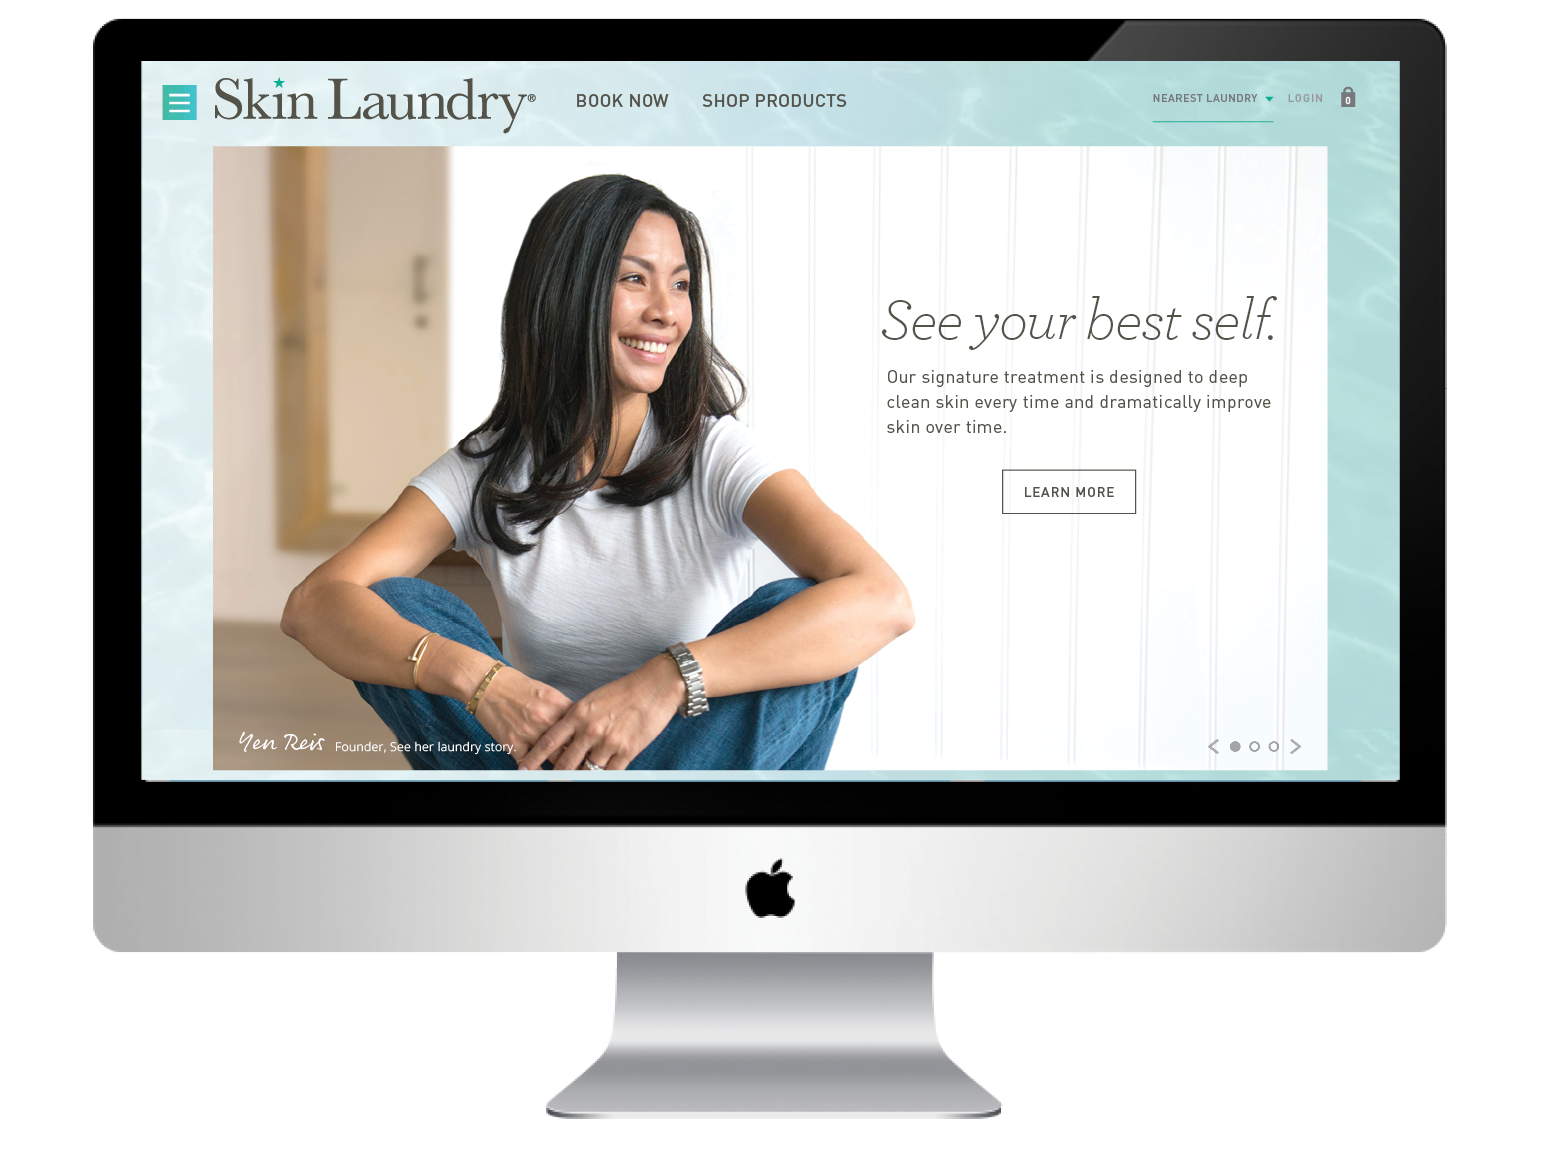
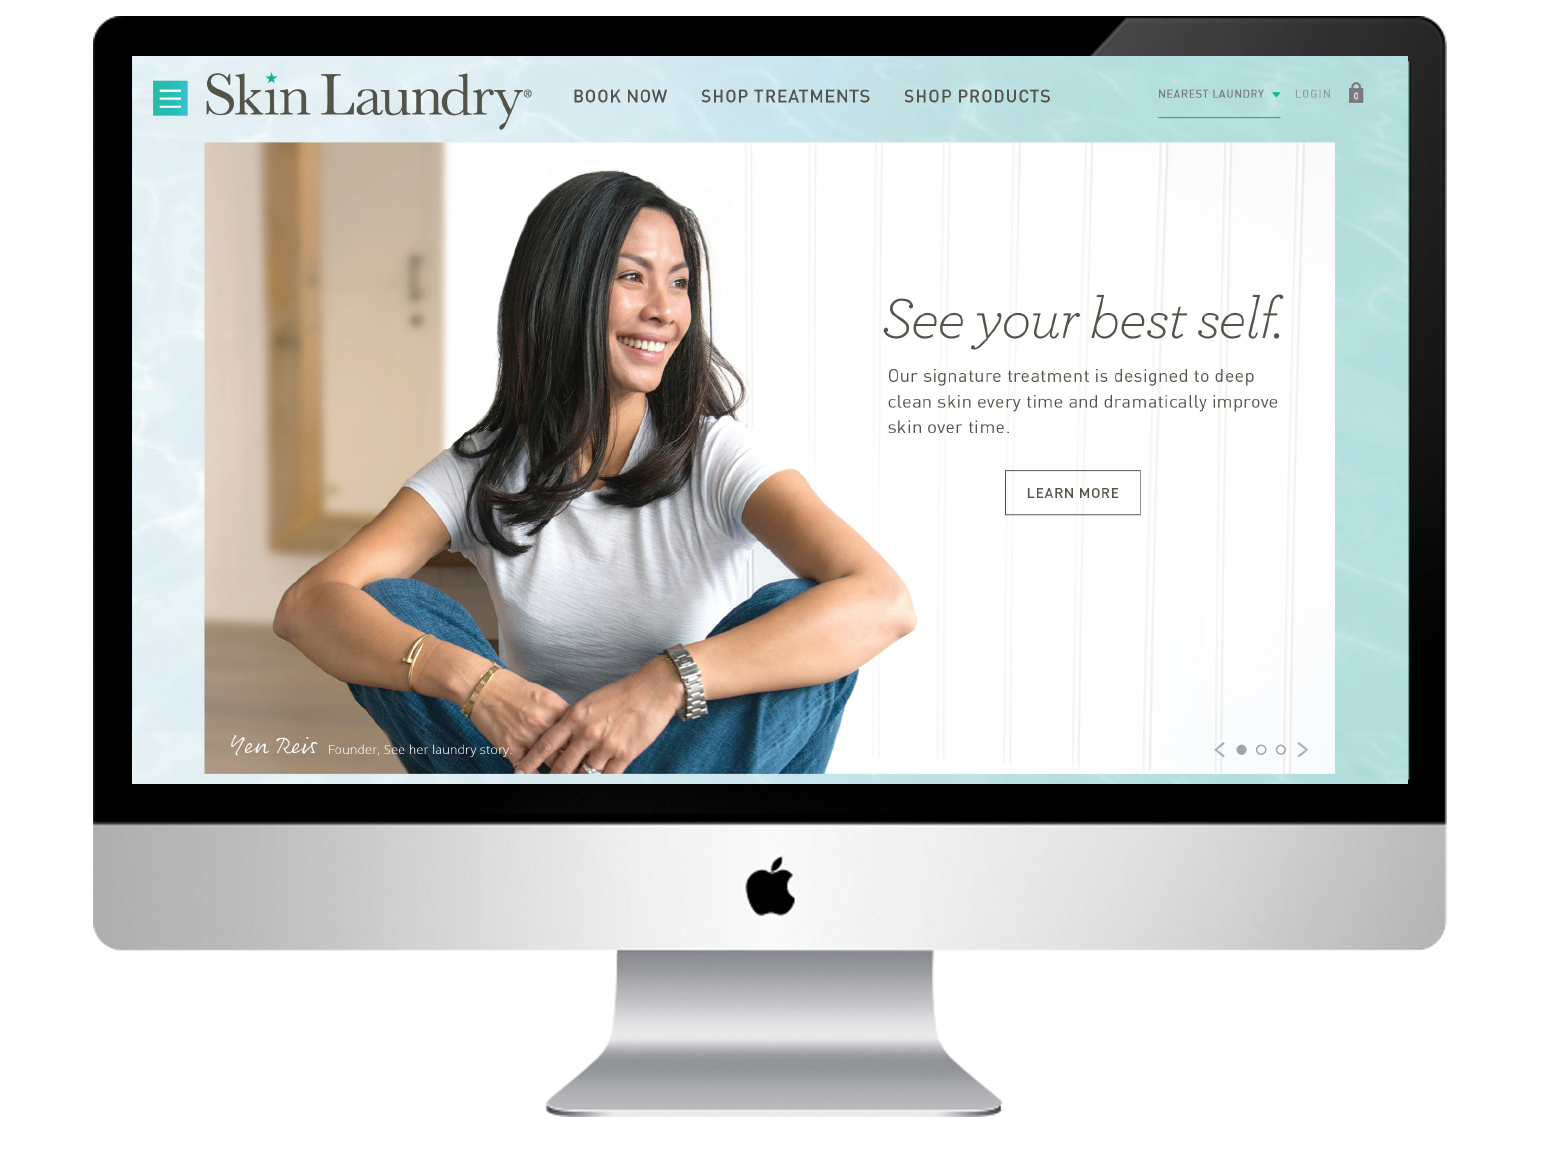
skin laundry mobile + correct bg images

diff --git a/source/stylesheets/case_studies/_skinlaundry.scss b/source/stylesheets/case_studies/_skinlaundry.scss
@@ -3,10 +3,12 @@ $mobile-width: 640px;
 body.skinlaundry {
     background-color: white;
     .top-background {
-        background-image: image-url("page_skinlaundry/graybackground2.jpg");
+        background-image: image-url("page_skinlaundry/palmtree.png");
     }
     .parallax-background {
-        background-image: image-url("page_skinlaundry/water_surface.jpg");
+        background-image: image-url("page_skinlaundry/water_surface.png");
+        background-repeat: no-repeat;
+
     } 
     .content {
         background-color: transparent;
@@ -17,6 +19,9 @@ body.skinlaundry {
             width: 100%;
             height: 100%;
             background-position: 100% 100px;
+            @media only screen and (max-width: $mobile-width) {
+                    padding-bottom: 0;
+                }
             .image-container {
             	font-size: 0;
           		position: relative;
@@ -25,7 +30,6 @@ body.skinlaundry {
           		margin: 0 auto;
           		
           		@media only screen and (max-width: $mobile-width) {
-          			padding-top: 138%;
           			width: 100%;
           		}
           		.block {
@@ -42,7 +46,10 @@ body.skinlaundry {
             		font-size: 25px;
             	}
           	    #sl-row01 {
-                    width: 100%;      	
+                    width: 100%;
+                    @media only screen and (max-width: $mobile-width) {
+                        text-align: center;
+                    }      	
                     #sl-container01 {
                         width: 45%;
                         transition: all 200ms ease-out;
@@ -58,7 +65,7 @@ body.skinlaundry {
                             padding-left: 0; 
                             opacity: .775;
                             left: 3%;
-                            width: 90%;
+                            width: 95%;
                             height: 25%;
                         }
                     }
@@ -77,20 +84,19 @@ body.skinlaundry {
                             padding-right: 50px;
                             font-family: 'DIN';
                         }
-                        
                         @media only screen and (max-width: 1170px) {
                             margin-top: 0;
-                            
                             p {
                                 line-height: 20px;
                                 padding-left: 30px;
                                 padding-right: 0;
                                 padding-top: 15px;
-                                
+                                text-align: left;
                             }
                         }
                         @media only screen and (max-width: 830px) {
                             width: 100%;
+                            margin: 0 auto;
                             h2 {
                                 margin-top: 20px;
                             }
@@ -98,19 +104,18 @@ body.skinlaundry {
                                 font-size: 15px;
                                 padding-left: 0;
                                 padding-right: 0;
-                                
                             }
                         }
                         @media only screen and (max-width: $mobile-width) {
-                            p {
-                                
-                                width: 50%;
-                            }
+                            width: 50%;
                         }
                     }
                 }
                 #sl-row02 {
                     width: 100%;
+                    @media only screen and (max-width: $mobile-width) {
+                        text-align: center;
+                    }
                     #sl-container03 {
                         width: 45%;
                         transition: all 200ms ease-out;
@@ -121,26 +126,71 @@ body.skinlaundry {
                             padding-left: 50px;
                             font-family: 'DIN';
                   		}
+                        @media only screen and (max-width: 1130px) {
+                            p {
+                                padding-top: 0px;
+                            }
+                        }
+                        @media only screen and (max-width: 1024px) {
+                            p {
+                                line-height: 20px;
+                                padding-right: 25px;
+                                padding-left: 25px;
+                            }
+                        }
+                        @media only screen and (max-width: 830px) {
+                            width: 50%;
+                            h2 {
+                                margin-top: 20px;
+                            }
+                            p {
+                                font-size: 15px;
+                                padding: 50px 10px;
+                                text-align: left;
+
+                            }
+                        }
                     }
                     #sl-container04 {
               		    width: 35%;
               		    img {
               			   width: 100%;
               		    }
+                        @media only screen and (max-width: 830px) {
+                            width: 50%;
+                            padding-top: 47px;
+                        }
+                        @media only screen and (max-width: $mobile-width) {
+                            width: 95%;
+                            padding-bottom: 30px;
+                            img {
+                                width: 100%;
+                            }
+                        }
                     }
                 }
                 #sl-row03 {
                     width: 100%;
+                    @media only screen and (max-width: $mobile-width) {
+                        text-align: center;
+                    }
                   	#sl-container05 {
                   		width: 45%;
                   		transition: all 200ms ease-out;
                   		img {
                   			width: 100%;
                   		}
+                        @media only screen and (max-width: $mobile-width) {
+                            width: 95%;
+                            img {
+                                width: 100%;
+                            }
+                        }
                   	}
                   	#sl-container06 {
                   		width: 55%;
                   		vertical-align: top;
+
                   		h1 {
                   			padding: 50px;
                   			text-align: center;
@@ -148,6 +198,19 @@ body.skinlaundry {
                             font-family: 'DIN';
                             line-height: 60px;
                   		}
+
+                        @media only screen and (max-width: 940px) {
+                            h1 {
+                                padding: 20px;
+                                font-size: 25px;
+                            }
+                        }
+                        @media only screen and (max-width: $mobile-width) {
+                            width: 100%;
+                            h1 {
+                                
+                            }
+                        }
                   	}
                 }
             }
@@ -176,7 +239,12 @@ body.skinlaundry {
             // max-width: 85%;
             background-image: image-url('page_skinlaundry/waterlevel_bg.jpg');
             background-size: contain;
+            background-repeat: no-repeat;
             text-align: center;
+            background-position: 0 150px;
+            @media only screen and (max-width: 720px) {
+                background-position: 0 200px;
+            }
             #sl-list {                
                 margin: 0 auto;
                 width: 400px;
@@ -219,7 +287,7 @@ body.skinlaundry {
             }
             #sl-row04 {
                 width: 100%;
-                
+                background: white;
                 #sl-container07 {
                     display: inline-block;
                     width: 64%;
@@ -232,6 +300,16 @@ body.skinlaundry {
                         font-weight: normal;
                         margin-top: 60px;
                         margin-left: 30px;
+                        @media only screen and (max-width: 860px) {
+                            font-size: 40px;
+                            margin-top: 25px;
+                        }
+                        @media only screen and (max-width: $mobile-width) {
+                            margin-left: 0;
+                            margin-top: 0;
+                            padding-top: 20px;
+                            padding-bottom: 20px;
+                        }
                     }
                 }
                 #sl-container08 {
@@ -239,6 +317,9 @@ body.skinlaundry {
                     display: inline-block;
                     img {
                         width: 100%;
+                    }
+                    @media only screen and (max-width: $mobile-width) {
+                        display: none;
                     }
                 }
             }
@@ -253,6 +334,9 @@ body.skinlaundry {
         }
         .bottom-container {
             text-align: center;
+            @media only screen and (max-width: $mobile-width) {
+                padding: 0;
+            }
         }
     }
 }
